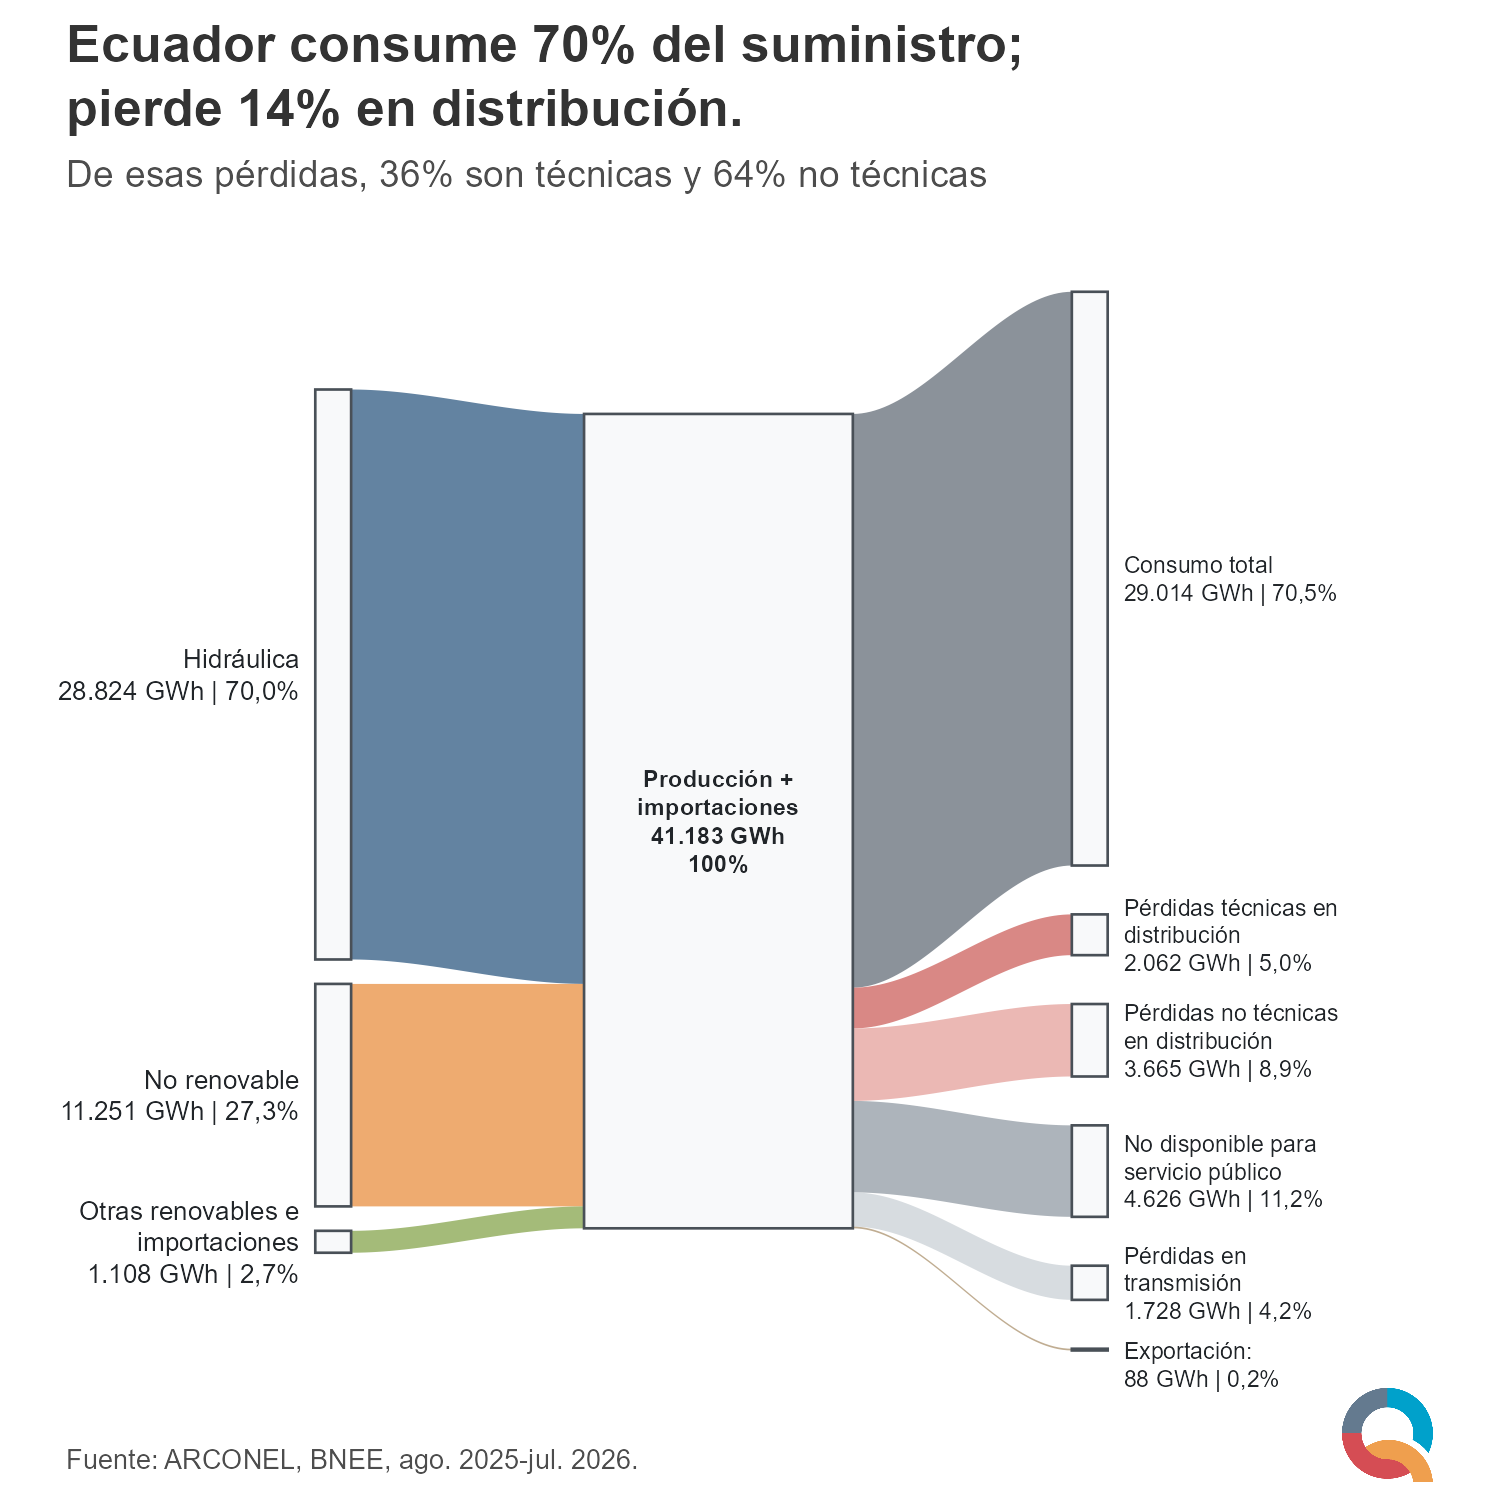
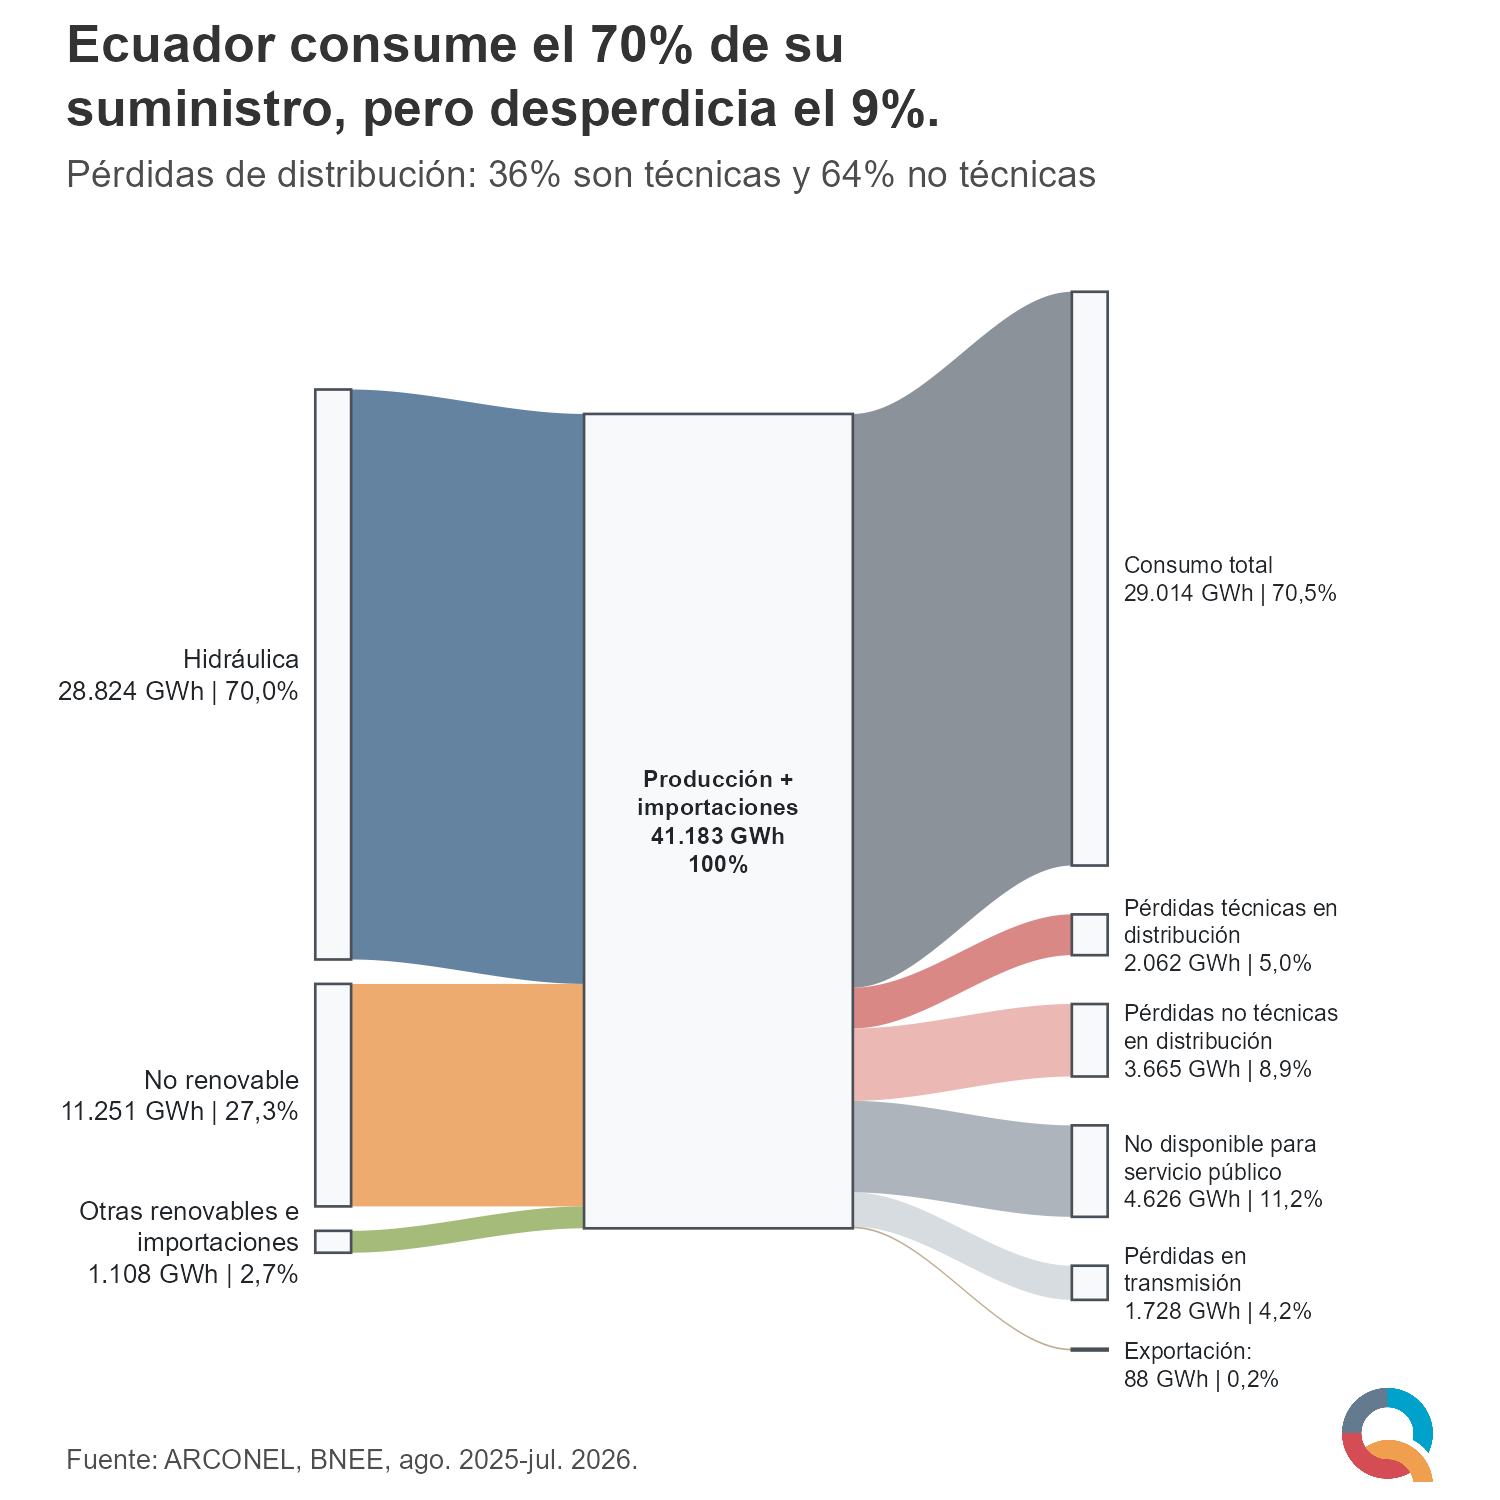
Correct Sankey loss headline

Changed region(s): [[0.0307, 0.0, 0.736, 0.1227]]

diff --git a/data/sources/bnee_arconel_sankey_corte_2026_07.md b/data/sources/bnee_arconel_sankey_corte_2026_07.md
@@ -27,6 +27,8 @@ Los demás destinos se reconstruyen con las relaciones contables del BNEE:
 
 El BNEE desglosa las pérdidas de distribución en 2.061,969943022 GWh técnicas y 3.664,926667723 GWh no técnicas. Suman el total publicado. Equivalen a 5,0% y 8,9% de la producción e importaciones, respectivamente; juntas, 13,9%. Sobre la energía disponible para los sistemas de distribución, representan 5,94% y 10,55%.
 
+El titular suma las pérdidas en transmisión (1.727,72 GWh) y las pérdidas técnicas en distribución (2.061,97 GWh): 3.789,69 GWh, equivalentes a 9,2% del suministro total. Deja fuera las pérdidas no técnicas, porque ARCONEL las define como energía suministrada que no se mide o registra comercialmente, no como energía disipada físicamente.
+
 Los seis destinos del flujo suman el total publicado de producción e importaciones. Las diferencias residuales inferiores a 0,000001 GWh se deben al redondeo binario de las cifras del archivo.
 
 ## Lectura y límites
